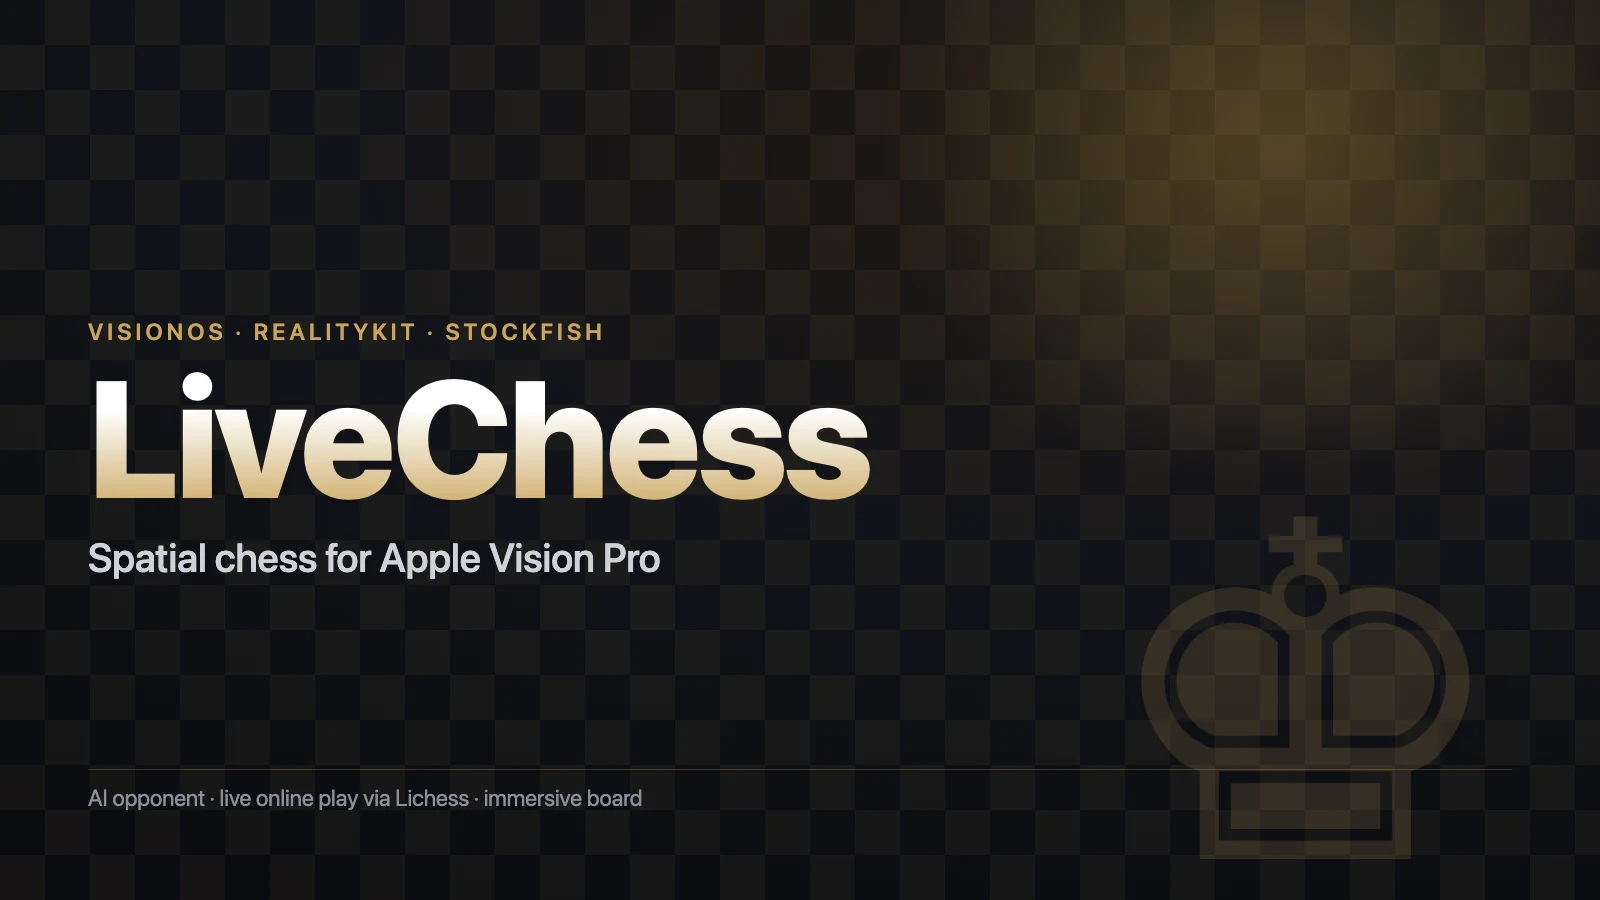
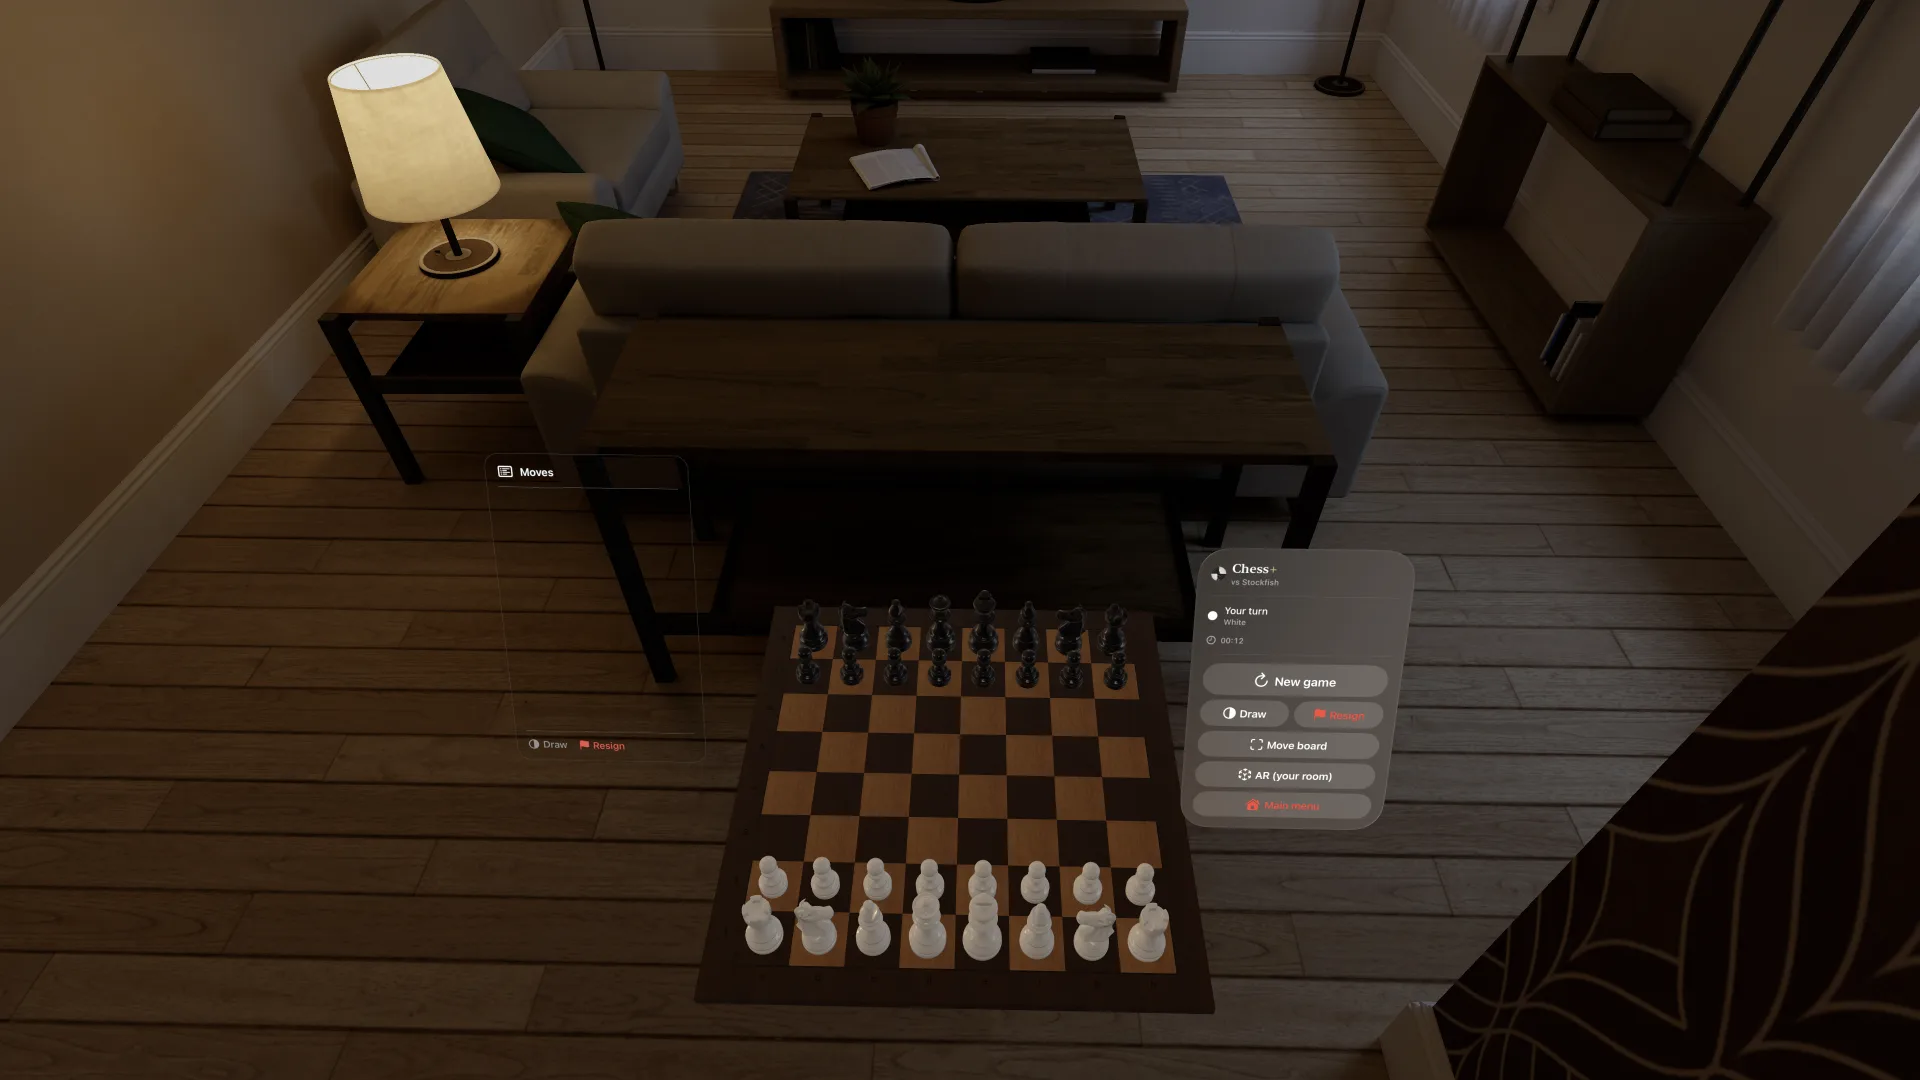
feat(livechess): real Vision Pro captures — hero, monolith, 7-shot gallery

diff --git a/src/data/projects.ts b/src/data/projects.ts
@@ -41,7 +41,15 @@ export const projects: Project[] = [
     image: "/images/projects/livechess/hero.webp",
     hero: "/images/projects/livechess/hero.webp",
     monolith: "/images/projects/livechess/monolith.webp",
-    gallery: [],
+    gallery: [
+      "/images/projects/livechess/gallery/01-menu.webp",
+      "/images/projects/livechess/gallery/02-ar-room.webp",
+      "/images/projects/livechess/gallery/03-local-stockfish.webp",
+      "/images/projects/livechess/gallery/04-online-lichess.webp",
+      "/images/projects/livechess/gallery/05-dwarven-hall.webp",
+      "/images/projects/livechess/gallery/06-balcony.webp",
+      "/images/projects/livechess/gallery/07-auditorium.webp",
+    ],
     link: "https://github.com/pruthvirajsinhpunada/LiveChess",
     accent: "#caa45d",
     caseStudy: {